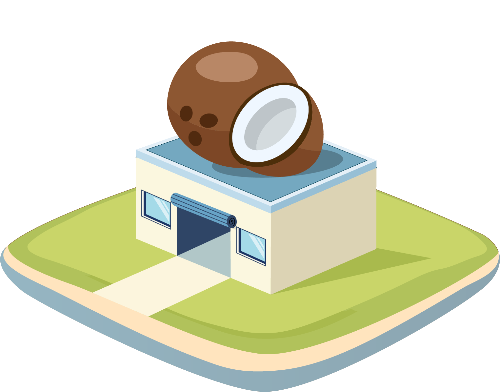
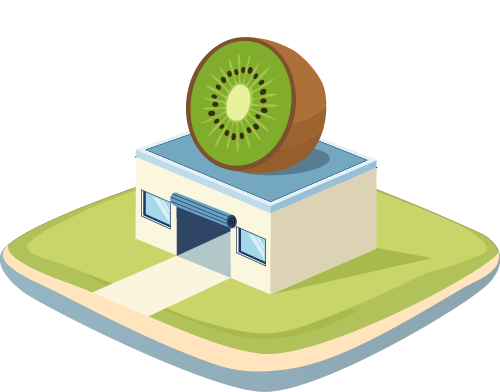
feat(control_configs): update fruit placeholders and add new images for screening and weeks 4, 24, and 28

diff --git a/control_configs.js b/control_configs.js
@@ -36,9 +36,9 @@ const CONTROL_CONFIG = {
     screening: "strawberry",
     wk0: "banana",
     wk2: "apple",
-    wk4: "<Placeholder>",
-    wk24: "<Placeholder>",
-    wk28: "<Placeholder>"
+    wk4: "lime",
+    wk24: "raspberry",
+    wk28: "peach"
   }
 };
 
